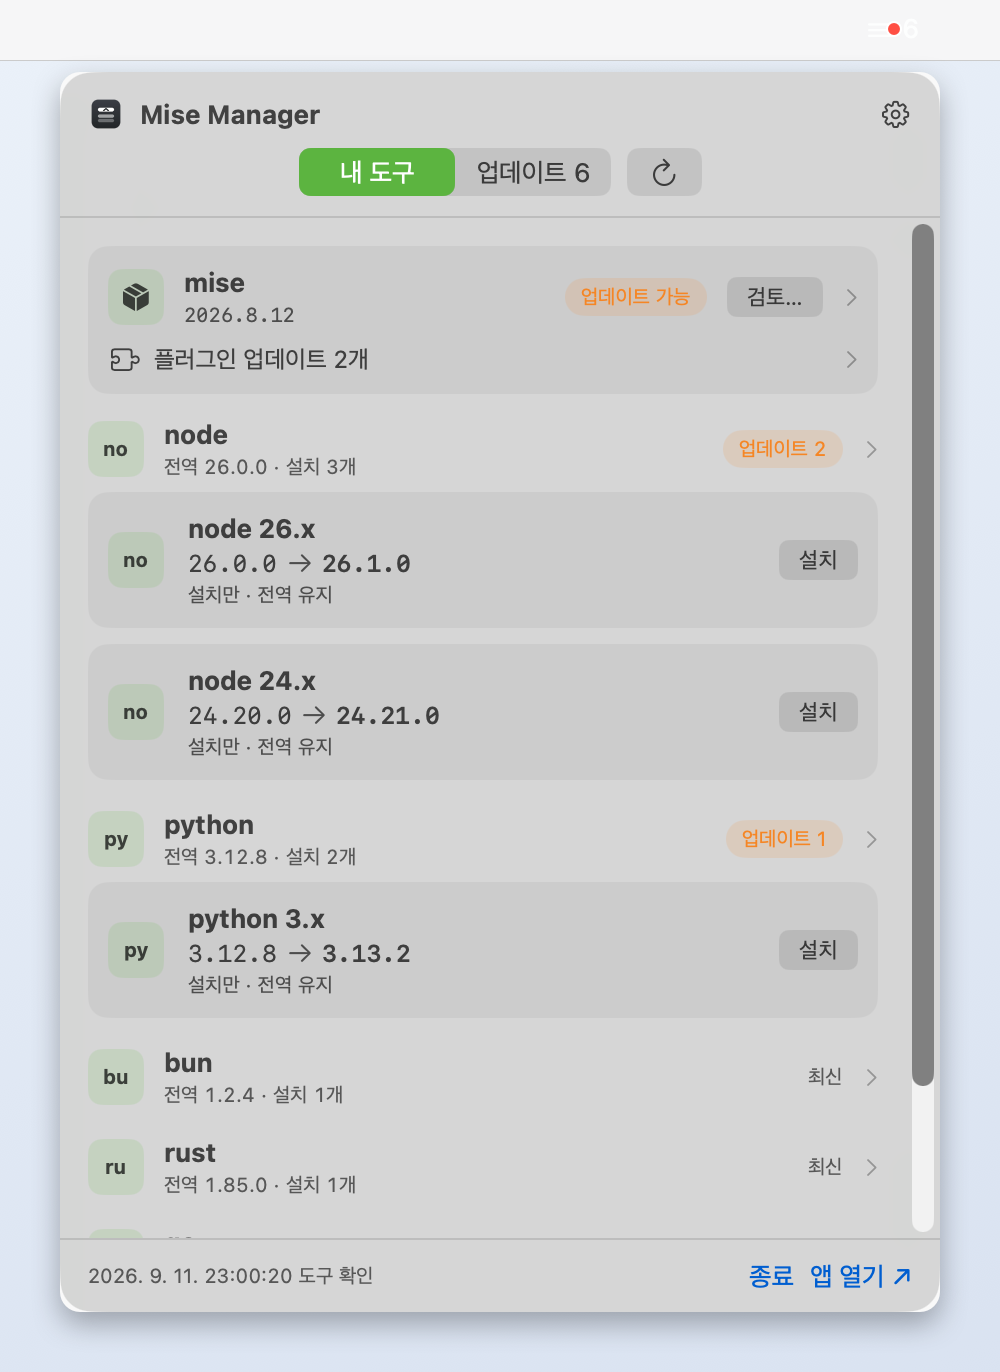
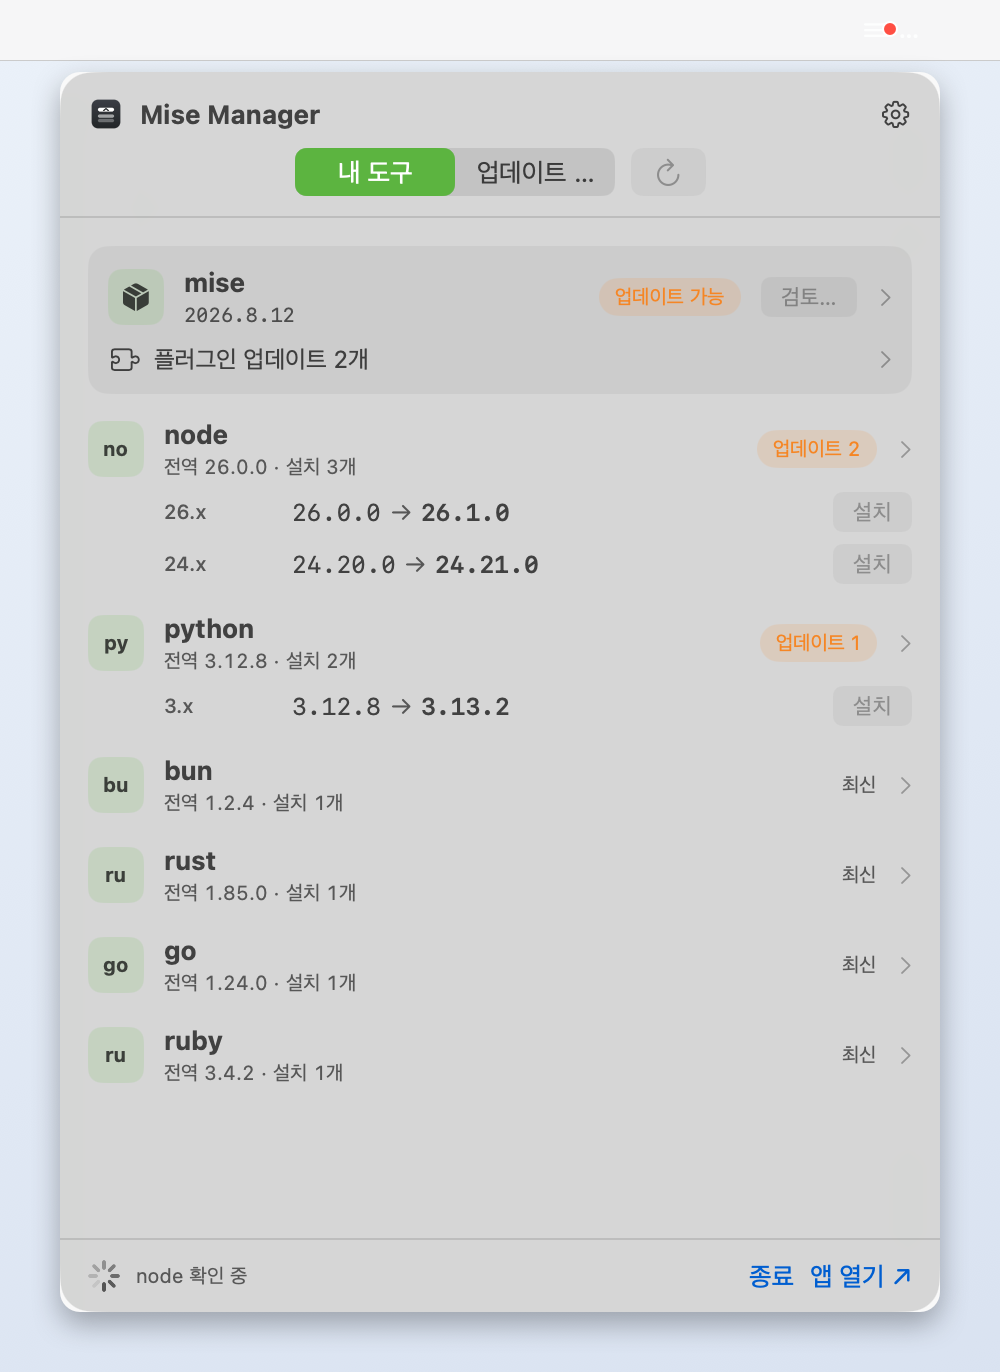
feat(menubar): pending updates as one indented line per series under the tool
Replaces the repeated glyph-and-name cards with '26.x  26.0.0 → 26.1.0  [설치]'
lines; the install/switch semantics moved into the button label and tooltip.

diff --git a/MiseManager/Views/Tray/TrayPanelView.swift b/MiseManager/Views/Tray/TrayPanelView.swift
@@ -196,7 +196,8 @@ private struct TrayToolBlock: View {
             .buttonStyle(.plain)
             .accessibilityLabel("\(tool.name) \(ToolStatus.label(tool))")
 
-            if !updates.isEmpty { UpdateList(state: state, items: updates) }
+            // One compact line per pending update, under the tool it belongs to.
+            ForEach(updates) { item in updateLine(item) }
 
             if expanded {
                 VStack(alignment: .leading, spacing: 6) {
@@ -219,6 +220,30 @@ private struct TrayToolBlock: View {
             }
         }
         .padding(.vertical, 2)
+    }
+
+    private func updateLine(_ item: UpdateItem) -> some View {
+        let switches = item.kind == .series && state.seriesUpdateSwitchesGlobal(tool, item.to)
+        let series = item.kind == .major ? "새 major" : Version.major(of: item.to).map { "\($0).x" } ?? ""
+        let action = item.kind == .major ? "검토…" : (switches ? "설치·전환" : "설치")
+        let hint = item.kind == .major ? "호환성 확인이 필요해 앱에서 검토합니다"
+            : (switches ? "설치 후 전역 기본값을 이 버전으로 전환합니다" : "설치만 하고 전역 기본값은 유지합니다")
+        return HStack(spacing: 8) {
+            Text(series).font(.caption.bold()).foregroundStyle(.secondary).frame(width: 56, alignment: .leading)
+            HStack(spacing: 4) {
+                Text(item.from)
+                Image(systemName: "arrow.right").font(.caption2).foregroundStyle(.secondary)
+                Text(item.to).bold()
+            }
+            .font(.callout.monospaced())
+            Spacer()
+            Button(action) { Task { await state.run(.apply(id: item.id)) } }
+                .controlSize(.small)
+                .disabled(checking)
+                .help(hint)
+                .accessibilityLabel("\(tool.name) \(series) \(item.to) \(action)")
+        }
+        .padding(.leading, 38)
     }
 
     @ViewBuilder private var status: some View {
